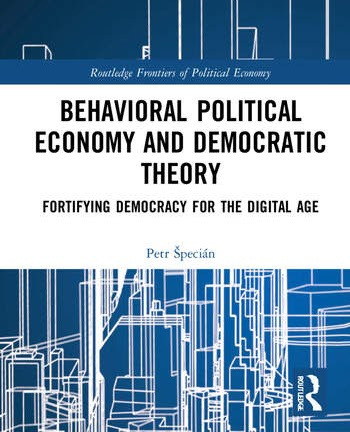
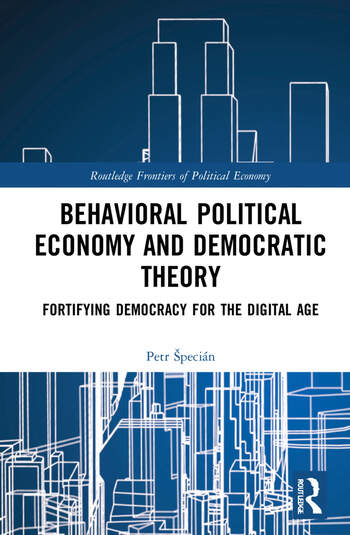
Book: full cover image

diff --git a/_site/index.html b/_site/index.html
@@ -78,7 +78,7 @@ ul.task-list li input[type="checkbox"] {
 {
   "@context": "https://schema.org",
   "@type": "ProfilePage",
-  "dateModified": "2026-09-18",
+  "dateModified": "2026-09-19",
   "mainEntity": {
     "@id": "https://petrspecian.com/#person",
     "@type": "Person",
@@ -328,7 +328,7 @@ Funded project · 2024–2026
 </section>
 <div class="section-shell">
 <div class="book-feature">
-<img src="assets/book-cover.jpg" alt="Cover of Behavioral Political Economy and Democratic Theory, Routledge 2022" width="350" height="432">
+<img src="assets/book-cover.jpg" alt="Cover of Behavioral Political Economy and Democratic Theory, Routledge 2022" width="350" height="535">
 <section id="book" class="level2">
 <h2 class="anchored" data-anchor-id="book">Book</h2>
 <p>Published by Routledge, my first book <em>Behavioral Political Economy and Democratic Theory: Fortifying Democracy for the Digital Age</em> examines the friction between modern technology and human rationality within liberal democracies. As we move further into a digitally-driven information age, challenges such as disinformation and extreme political polarization become more prominent.</p>

diff --git a/_site/404.html b/_site/404.html
@@ -78,7 +78,7 @@ ul.task-list li input[type="checkbox"] {
 {
   "@context": "https://schema.org",
   "@type": "ProfilePage",
-  "dateModified": "2026-09-18",
+  "dateModified": "2026-09-19",
   "mainEntity": {
     "@id": "https://petrspecian.com/#person",
     "@type": "Person",

diff --git a/_site/about.html b/_site/about.html
@@ -78,7 +78,7 @@ ul.task-list li input[type="checkbox"] {
 {
   "@context": "https://schema.org",
   "@type": "ProfilePage",
-  "dateModified": "2026-09-18",
+  "dateModified": "2026-09-19",
   "mainEntity": {
     "@id": "https://petrspecian.com/#person",
     "@type": "Person",

diff --git a/_site/contact.html b/_site/contact.html
@@ -78,7 +78,7 @@ ul.task-list li input[type="checkbox"] {
 {
   "@context": "https://schema.org",
   "@type": "ProfilePage",
-  "dateModified": "2026-09-18",
+  "dateModified": "2026-09-19",
   "mainEntity": {
     "@id": "https://petrspecian.com/#person",
     "@type": "Person",

diff --git a/_site/publications.html b/_site/publications.html
@@ -78,7 +78,7 @@ ul.task-list li input[type="checkbox"] {
 {
   "@context": "https://schema.org",
   "@type": "ProfilePage",
-  "dateModified": "2026-09-18",
+  "dateModified": "2026-09-19",
   "mainEntity": {
     "@id": "https://petrspecian.com/#person",
     "@type": "Person",

diff --git a/_site/publications/basic-income-costs-czech-republic.html b/_site/publications/basic-income-costs-czech-republic.html
@@ -78,7 +78,7 @@ ul.task-list li input[type="checkbox"] {
 {
   "@context": "https://schema.org",
   "@type": "ProfilePage",
-  "dateModified": "2026-09-18",
+  "dateModified": "2026-09-19",
   "mainEntity": {
     "@id": "https://petrspecian.com/#person",
     "@type": "Person",

diff --git a/_site/publications/book.html b/_site/publications/book.html
@@ -78,7 +78,7 @@ ul.task-list li input[type="checkbox"] {
 {
   "@context": "https://schema.org",
   "@type": "ProfilePage",
-  "dateModified": "2026-09-18",
+  "dateModified": "2026-09-19",
   "mainEntity": {
     "@id": "https://petrspecian.com/#person",
     "@type": "Person",

diff --git a/_site/publications/built-for-humans-only.html b/_site/publications/built-for-humans-only.html
@@ -78,7 +78,7 @@ ul.task-list li input[type="checkbox"] {
 {
   "@context": "https://schema.org",
   "@type": "ProfilePage",
-  "dateModified": "2026-09-18",
+  "dateModified": "2026-09-19",
   "mainEntity": {
     "@id": "https://petrspecian.com/#person",
     "@type": "Person",

diff --git a/_site/publications/digital-homunculi.html b/_site/publications/digital-homunculi.html
@@ -78,7 +78,7 @@ ul.task-list li input[type="checkbox"] {
 {
   "@context": "https://schema.org",
   "@type": "ProfilePage",
-  "dateModified": "2026-09-18",
+  "dateModified": "2026-09-19",
   "mainEntity": {
     "@id": "https://petrspecian.com/#person",
     "@type": "Person",

diff --git a/_site/publications/economic-analysis-of-a-referendum.html b/_site/publications/economic-analysis-of-a-referendum.html
@@ -78,7 +78,7 @@ ul.task-list li input[type="checkbox"] {
 {
   "@context": "https://schema.org",
   "@type": "ProfilePage",
-  "dateModified": "2026-09-18",
+  "dateModified": "2026-09-19",
   "mainEntity": {
     "@id": "https://petrspecian.com/#person",
     "@type": "Person",

diff --git a/_site/publications/epistemology-and-the-pandemic.html b/_site/publications/epistemology-and-the-pandemic.html
@@ -78,7 +78,7 @@ ul.task-list li input[type="checkbox"] {
 {
   "@context": "https://schema.org",
   "@type": "ProfilePage",
-  "dateModified": "2026-09-18",
+  "dateModified": "2026-09-19",
   "mainEntity": {
     "@id": "https://petrspecian.com/#person",
     "@type": "Person",

diff --git a/_site/publications/give-the-machine-a-chance.html b/_site/publications/give-the-machine-a-chance.html
@@ -78,7 +78,7 @@ ul.task-list li input[type="checkbox"] {
 {
   "@context": "https://schema.org",
   "@type": "ProfilePage",
-  "dateModified": "2026-09-18",
+  "dateModified": "2026-09-19",
   "mainEntity": {
     "@id": "https://petrspecian.com/#person",
     "@type": "Person",
